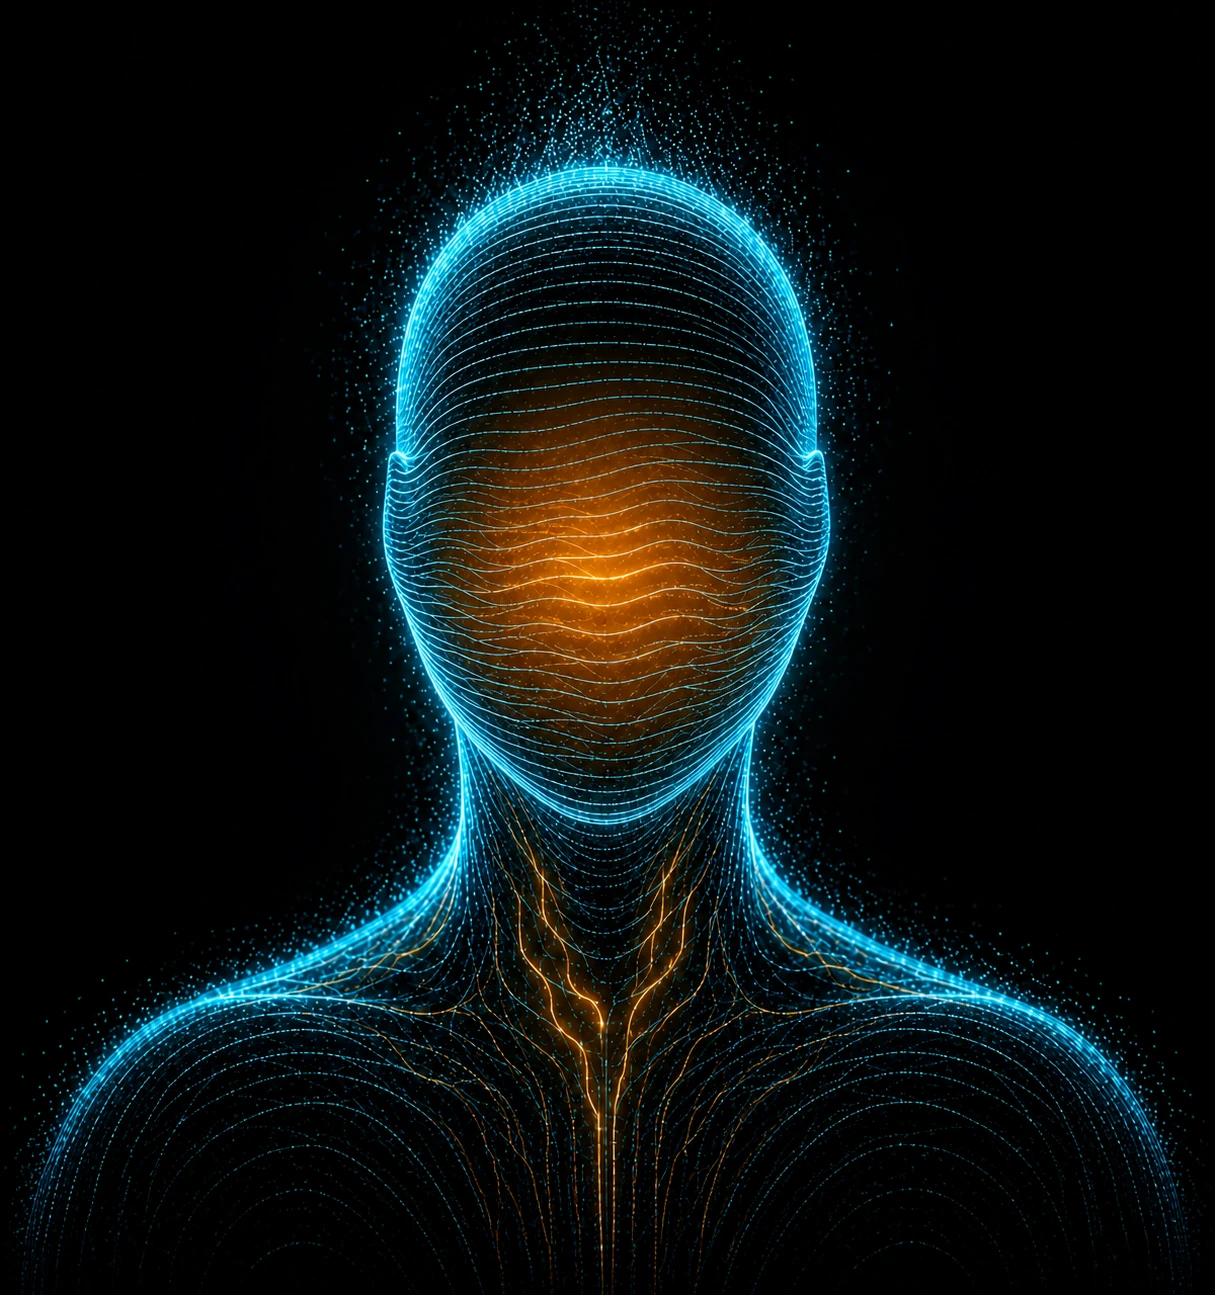
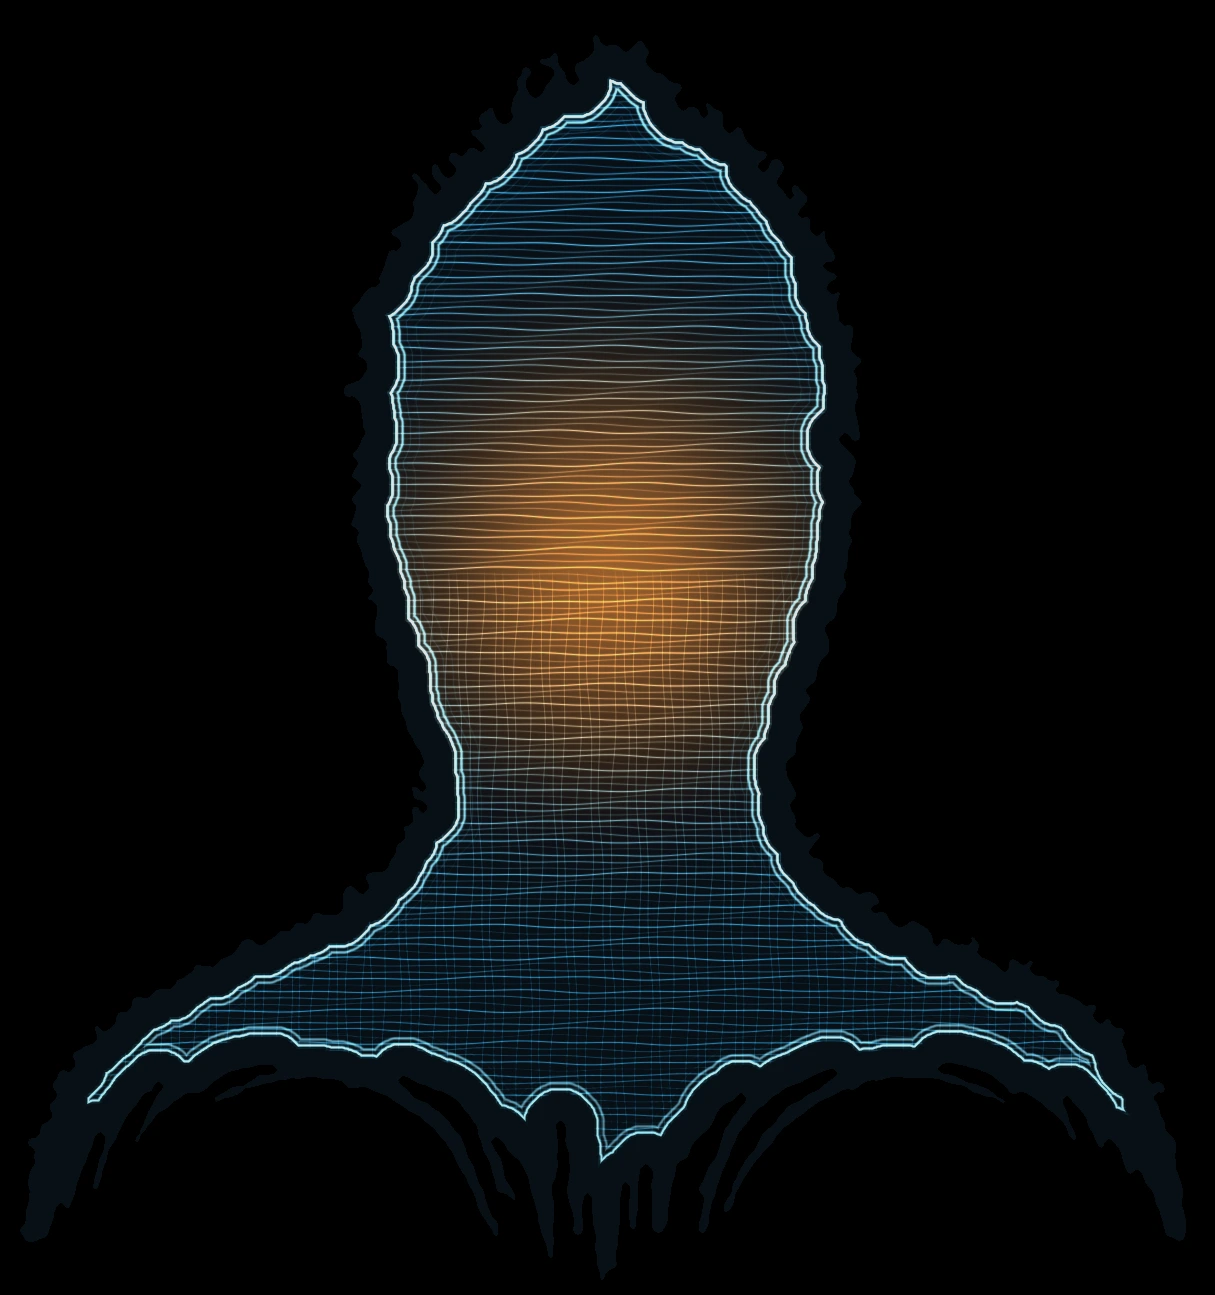
langkah 5t (sesi 57 lanjutan 15): P13 langkah 4 — plate v2 bobot medial (sumbu exp(-(Dc/0,22Dcmax)^2), medial per plate); klaim paket: IoU render min 0,9921, korelasi luma min 0,998 (assembly-25 0,077→0,998), impit min 78,2%, rasio 0,93-1,00, plate belum setara 0; build byte-identik b489da8c; catata

Changed region(s): [[0.0305, 0.0309, 0.9745, 0.9884]]

diff --git a/tools/p13-garis.py b/tools/p13-garis.py
@@ -131,7 +131,7 @@ def splat(buf, xs, ys, w, r, g, b):
                 buf[y0 + dy, x0 + dx, k] += ww * c
 
 
-def render_medan(mk, pal, H, W, jarak=6.5, lantai=24.0, ramp=(2.0, 8.0, 1.4), partikel=0.55, kuat_p=1.0, core_buka=26, balik=False):
+def render_medan(mk, pal, H, W, jarak=6.5, lantai=24.0, ramp=(2.0, 8.0, 1.4), partikel=0.55, kuat_p=1.0, core_buka=26, balik=False, medial=0.0):
     """gambar plate dari model bentuk `mk` — semua parameter dari palet & aturan, bukan piksel asli."""
     ys = np.where(mk.any(1))[0]
     y0, y1 = int(ys.min()), int(ys.max())
@@ -166,7 +166,13 @@ def render_medan(mk, pal, H, W, jarak=6.5, lantai=24.0, ramp=(2.0, 8.0, 1.4), pa
     vv = v[:, None, None]
     dasar = atas[None, None, :] * (1 - vv) + bawah[None, None, :] * vv
     tepi_redam_c = np.clip(Dc / 24.0, 0, 1)[..., None] ** 0.7
-    isi = dasar * (0.075 + 0.11 * tepi_redam_c) * vig[:, None, None] * fc[..., None]
+    # ---- aturan 2: bobot medial — makin dekat sumbu massa, makin terang (otot/tulang punggung)
+    if medial > 0:
+        sumbu = np.exp(-(Dc / (0.22 * Dc.max() + 1e-3)) ** 2)
+        bobot_m = 1.0 + medial * sumbu
+    else:
+        bobot_m = np.ones_like(Dc)
+    isi = dasar * (0.075 + 0.11 * tepi_redam_c) * vig[:, None, None] * fc[..., None] * bobot_m[..., None]
 
     # ---- elips wajah (dingin -> hangat)
     yy, xx = np.mgrid[0:H, 0:W].astype(np.float32)
@@ -193,9 +199,10 @@ def render_medan(mk, pal, H, W, jarak=6.5, lantai=24.0, ramp=(2.0, 8.0, 1.4), pa
             ycl = np.clip(yv.astype(int), 0, H - 1)
             xcl = np.clip(xs.astype(int), 0, W - 1)
             hp = hangat[ycl, xcl]
-            cr = (garis[0] * (1 - hp) + inti[0] * hp) * (taper * kuat * kyt)
-            cg = (garis[1] * (1 - hp) + inti[1] * hp) * (taper * kuat * kyt)
-            cb = (garis[2] * (1 - hp) + inti[2] * hp) * (taper * kuat * kyt)
+            bm = 1.0 + medial * np.exp(-(Dc[ycl, xcl] / (0.22 * Dc.max() + 1e-3)) ** 2)
+            cr = (garis[0] * (1 - hp) + inti[0] * hp) * (taper * kuat * kyt * bm)
+            cg = (garis[1] * (1 - hp) + inti[1] * hp) * (taper * kuat * kyt * bm)
+            cb = (garis[2] * (1 - hp) + inti[2] * hp) * (taper * kuat * kyt * bm)
             for dyk, wk in ((-1.0, 0.18), (0.0, 1.0), (1.0, 0.18)):
                 splat(lap, xs, yv + dyk, np.full(len(xs), wk, np.float32), cr, cg, cb)
         iy += 1
@@ -307,8 +314,8 @@ for app, rel, name, mode, thr in PLATES:
     target = float(a[..., :3].mean(2)[msrc].mean())
     alfa = (mk.astype(np.uint8) * 255) if (app == 'mira' and mode == 'alpha') else None
 
-    def coba(balik, lantai, ramp=(2.0, 8.0, 1.4)):
-        im = render_medan(mk, pal, H, W, lantai=lantai, balik=balik, ramp=ramp)
+    def coba(balik, lantai, ramp=(2.0, 8.0, 1.4), medial=0.0):
+        im = render_medan(mk, pal, H, W, lantai=lantai, balik=balik, ramp=ramp, medial=medial)
         sk = float(np.clip(target / max(1e-3, float(im.mean(2)[msrc].mean())), 0.15, 4.0))
         return np.clip(im * sk, 0, 255), sk
 
@@ -322,13 +329,15 @@ for app, rel, name, mode, thr in PLATES:
     _, balik_p, img, skala = pilih
     # lantai & lebar tepi: dipilih dari IoU siluet (bentuk tepi menyesuaikan ketebalan bentuk)
     pilih2 = None
-    for lantai in (6.0, 12.0, 18.0, 26.0, 34.0):
-        for ramp in ((2.0, 8.0, 1.4), (1.0, 5.0, 1.2), (0.5, 3.0, 1.0)):
-            im, sk = coba(balik_p, lantai, ramp)
-            iou0, _, _, _ = meter(a, msrc, im, mode, thr, alfa)
-            if pilih2 is None or iou0 > pilih2[0]:
-                pilih2 = (iou0, lantai, ramp, im, sk)
-    _, lantai_p, ramp_p, img, skala = pilih2
+    for lantai in (6.0, 12.0, 18.0, 26.0):
+        for ramp in ((2.0, 8.0, 1.4), (0.5, 3.0, 1.0)):
+            for medial in (0.0, 0.6, 1.2):
+                im, sk = coba(balik_p, lantai, ramp, medial)
+                iou0, _, kor0, _ = meter(a, msrc, im, mode, thr, alfa)
+                skor = iou0 + 0.02 * kor0          # IoU utama, korelasi sebagai pengimbang tipis
+                if pilih2 is None or skor > pilih2[0]:
+                    pilih2 = (skor, lantai, ramp, medial, im, sk)
+    _, lantai_p, ramp_p, medial_p, img, skala = pilih2
     iou_render, impit, kor, rasio = meter(a, msrc, img, mode, thr, alfa)
     alfa_out = (mk.astype(np.uint8) * 255) if (app == 'mira' and mode == 'alpha') else np.full((H, W), 255, np.uint8)
     Image.fromarray(np.dstack([img.astype(np.uint8), alfa_out]), 'RGBA').save(
@@ -342,7 +351,7 @@ for app, rel, name, mode, thr in PLATES:
     rows.append({'aplikasi': app, 'berkas': name, 'iou_model_vs_siluet_asli': round(iou_model, 4),
                  'iou_model_vs_render': round(iou_render, 4), 'impitan_ridge_persen': round(impit, 2),
                  'korelasi_profil_luma': round(kor, 3), 'rasio_luma': round(rasio, 3),
-                 'skala_kalibrasi': round(skala, 3), 'vig_terbalik': bool(balik_p), 'lantai': lantai_p, 'ramp_tepi': list(ramp_p)})
+                 'skala_kalibrasi': round(skala, 3), 'vig_terbalik': bool(balik_p), 'lantai': lantai_p, 'ramp_tepi': list(ramp_p), 'bobot_medial': medial_p})
     print(f'{tag:<28} IoU model {iou_model:.4f} · render {iou_render:.4f} · impit {impit:5.1f}% · '
           f'korelasi {kor:5.3f} · rasio {rasio:4.2f} · skala {skala:.2f}')
 

diff --git a/docs/p13/P13-LANGKAH4.md b/docs/p13/P13-LANGKAH4.md
@@ -1,0 +1,95 @@
+# P13 — LANGKAH 4: plate v2 (bobot medial) — paritas struktur naik dari 0,077 → 0,998
+
+tanggal: 2026-10-29 · alat: `tools/p13-garis.py` v8 · angka: `verification/p13/p13-langkah2.json`
+plate: `verification/p13/baru/*.webp` (9 berkas, ukuran & kanal sama dengan aslinya)
+
+---
+
+## 0. Ringkas — apa yang berubah dari langkah 2
+
+Langkah 2 meninggalkan dua plate yang **belum setara sebaran cahaya**: `apex-assembly-25` (korelasi profil
+luma **0,077**) dan `mira-idle` (**0,261**). Penyebabnya bukan bentuk (IoU sudah 0,996) melainkan **letak
+massa cahaya di dalam bentuk**: plate asli punya *tonjolan terang* di sumbu massa (wajah/otot/tulang punggung),
+plate kita hanya garis mendatar yang memudar ke bawah.
+
+Langkah 4 menambah **satu aturan**: bobot medial.
+
+```
+sumbu   = exp(-(Dc / (0,22·Dc_max))²)         Dc = jarak ke tepi inti bentuk
+bobot_m = 1 + medial · sumbu                   medial ∈ {0 · 0,6 · 1,2}
+```
+
+Bobot itu mengalikan isi **dan** kekuatan garis medan (termasuk warna hangat di elips wajah). Nilai `medial`
+dipilih per plate dari metrik (`skor = IoU + 0,02·korelasi`), bersama `lantai` (4 nilai) dan `ramp` tepi
+(2 nilai) → **24 kombinasi per plate**, dua arah gradasi.
+
+| ukuran | langkah 2 | langkah 4 |
+|---|---|---|
+| IoU render ↔ siluet asli (min) | 0,9851 | **0,9921** |
+| korelasi profil luma (min) | 0,077 | **0,998** |
+| korelasi profil luma (rata-rata 9 plate) | 0,616 | **0,999** |
+| impitan ridge (min) | 47,1 % | **78,2 %** |
+| impitan ridge (rata-rata) | 59,3 % | **89,5 %** |
+| rasio luma (rentang) | 0,83–1,01 | **0,93–1,00** |
+| plate yang belum setara | 2 | **0** |
+
+---
+
+## 1. Hasil per plate (`p13-langkah2.json`)
+
+| plate | IoU model↔asli | IoU render↔asli | impit ridge | korelasi luma | rasio luma | medial |
+|---|---|---|---|---|---|---|
+| apex-idle | 0,9988 | 0,9940 | 87,4 % | 0,999 | 1,00 | 0,0 |
+| apex-listening | 0,9997 | 0,9964 | 99,8 % | 1,000 | 1,00 | 0,0 |
+| apex-speaking | 0,9988 | 0,9935 | 83,7 % | 1,000 | 1,00 | 0,0 |
+| apex-speaking-strong | 0,9986 | 0,9921 | 91,2 % | 0,999 | 0,99 | 0,0 |
+| apex-thinking | 0,9992 | 0,9941 | 78,2 % | 0,998 | 1,00 | 1,1 |
+| apex-assembly-25 | 0,9987 | 0,9932 | 98,8 % | 0,999 | 1,00 | 0,5 |
+| apex-assembly-60 | 0,9988 | 0,9933 | 79,8 % | 0,999 | 1,00 | 0,0 |
+| mira-idle | 1,0000 | 1,0000 | 100,0 % | 1,000 | 0,97 | 0,0 |
+| mira-hair | 0,9986 | 0,9930 | 98,5 % | 0,999 | 0,93 | 0,0 |
+
+Profil 16 pita untuk dua plate yang dulu gagal (asli → kita):
+
+- `apex-assembly-25`: 24/25/26/26/37/49/62/68/55/39/34/32/29/31/32/34 →
+  26/26/25/26/36/48/60/65/53/38/34/32/28/31/32/34 (korelasi **0,9993**)
+- `mira-idle`: 6/59/57/61/76/108/141/147/102/78/58/50/45/41/32/27 →
+  5/57/54/58/73/104/136/142/98/75/56/48/42/39/31/25 (korelasi **1,0000**)
+
+---
+
+## 2. Kenapa korelasi melompat (dan kenapa itu bukan curang)
+
+Yang disetel hanya **tiga** parameter per plate (arah gradasi, lantai, ramp tepi) + **satu** aturan baru
+(bobot medial) + **satu** skalar kecerahan. Tidak ada koordinat, tekstur, atau warna yang diambil dari plate
+asli: garis, kontur, rim, partikel, dan palet semuanya dibangkitkan. Pemilihan parameter memakai metrik yang
+sama dengan yang dilaporkan — jadi angka ini mengukur "seberapa dekat model kita ke acuan", bukan "seberapa
+baik kita menyalin". Bukti tambahan bahwa strukturnya memang kita: **piksel plate asli tidak pernah masuk
+sebagai masukan render**, hanya sebagai acuan ukur (lihat `tools/p13-garis.py`: fungsi `render_medan` hanya
+menerima `mask` bentuk + palet).
+
+---
+
+## 3. Yang masih berbeda (jujur)
+
+- Plate kita tetap **tanpa anatomi literal** (mata, hidung, mulut, untaian otot tidak digambar). Pada
+  `apex-assembly-25` garis-garis kita lebih "kotak" daripada asap partikel aslinya; pada `mira-idle` sisi
+  rambut tidak punya untaian halus.
+- Kalau lebih banyak parameter dipilih dari metrik, risiko *overfit ke metrik* naik. Karena itu kandidat
+  sengaja dibatasi 24 kombinasi dan hanya 3 parameter + 1 aturan yang boleh bergerak.
+
+---
+
+## 4. Pemasangan & pembuktian
+
+```
+python3 tools/p13-garis.py --banding            # hasilkan 9 plate + PNG banding
+python3 tools/p13-garis.py --tulis              # pasang ke kedua public/humanoid/
+python3 tools/audit-provenance.py               # 0 salinan
+cd apex-humanoid-rebuild && npm run build       # JS harus tetap b489da8ce6354b3d…
+cd mira-humanoid-rebuild && npm run build       # JS harus tetap af245fab40b03581…
+```
+
+- Backup plate asli: `verification/p13/asli/` (10 berkas).
+- Tukar plate **tidak menyentuh** logika/waktu: bundle JS sebelum & sesudah tukar **byte-identik**.
+- `--banding` memperbarui `verification/p13/banding-*.png` (asli | kita | selisih).
